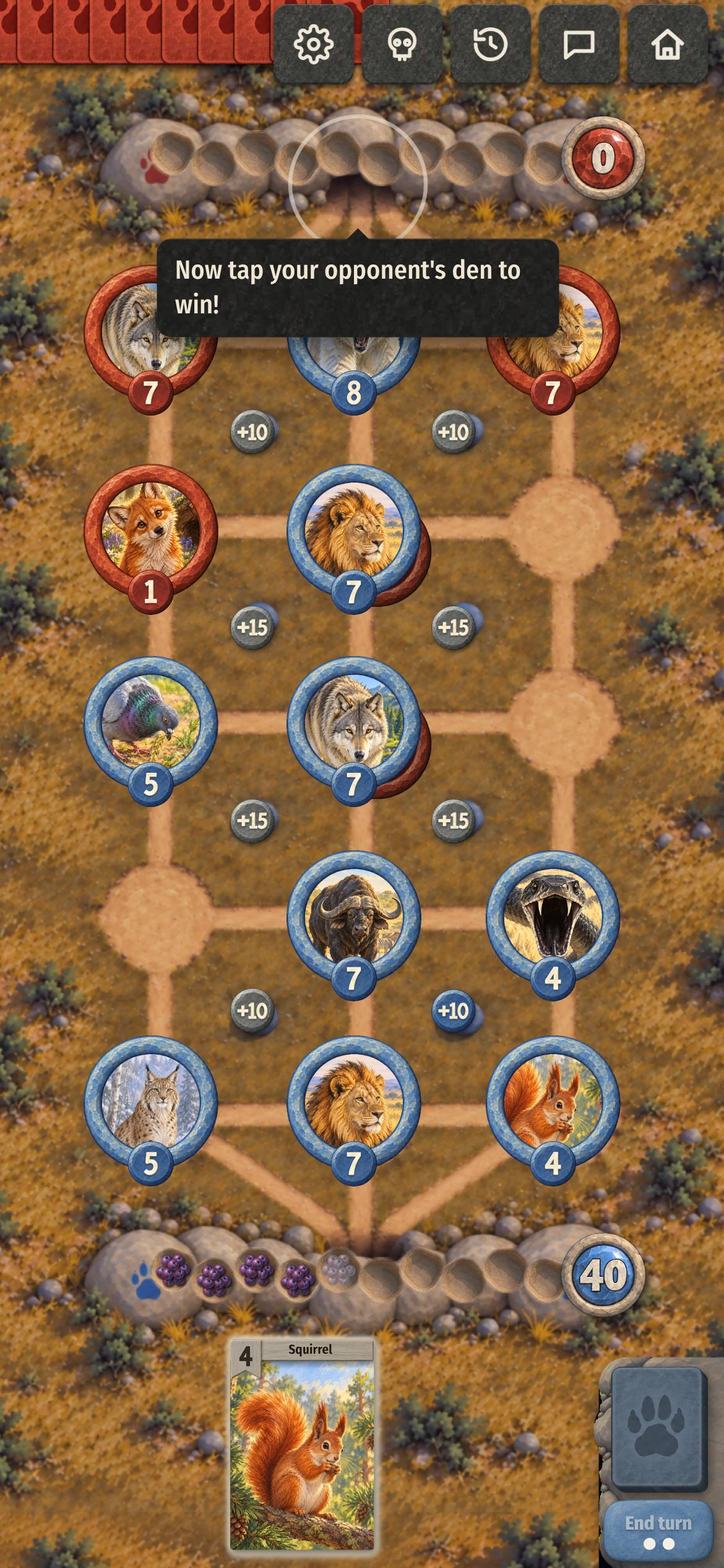
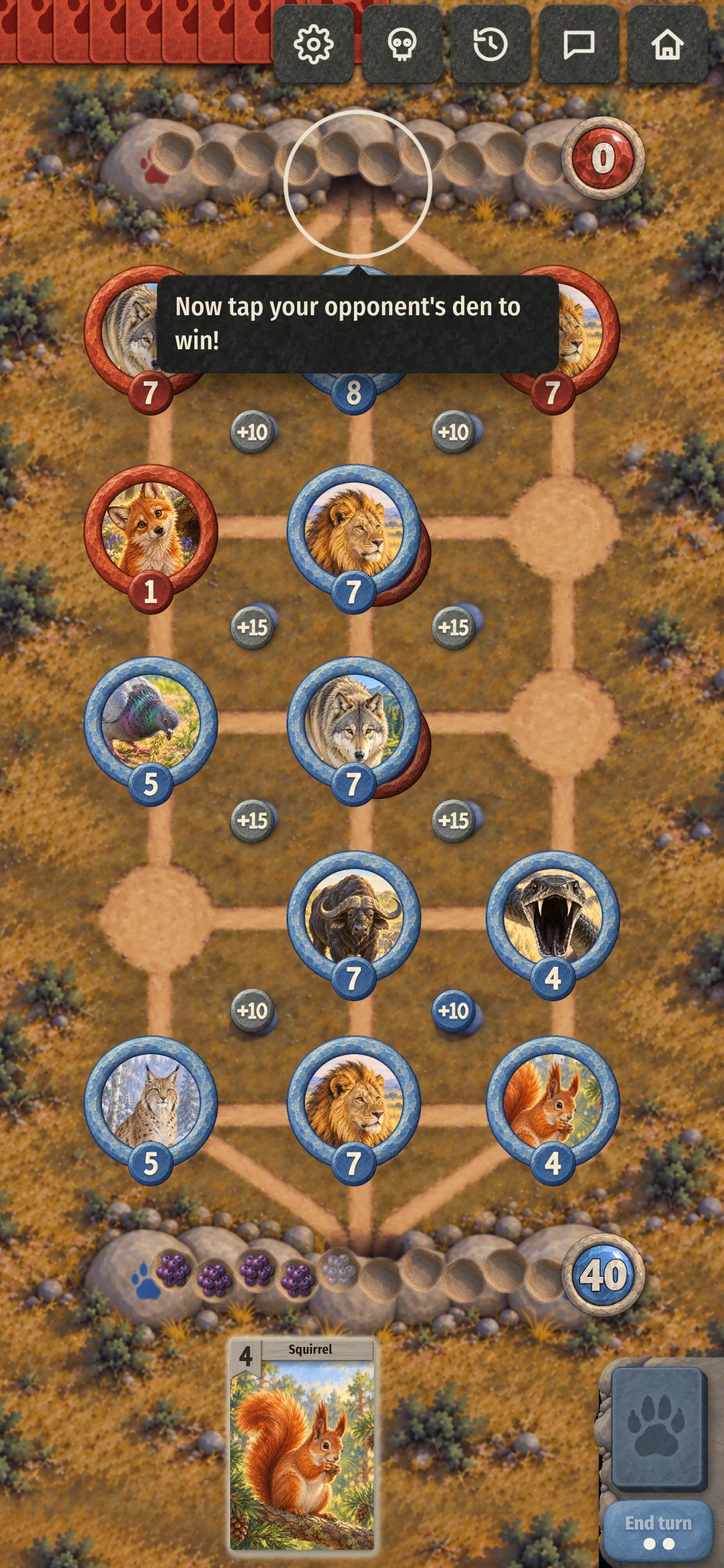
Tutorial, upright: the open-den line stands just under the den's ring, clear of it, still by the den (Martin's second review of finding 5)
Claude-Session: https://claude.ai/code/session_01Ehedr319yoP6MkHMz9pG7b

Changed region(s): [[0.1846, 0.0624, 0.8, 0.2496]]

diff --git a/animal_kingdom/web/static/coach.js b/animal_kingdom/web/static/coach.js
@@ -107,7 +107,9 @@ export function drawCoach(el, L, rings = []) {
     [x, y, side] = port ? [16 + pb.offsetWidth / 2, pb.offsetTop + pb.offsetHeight - 14 - up, 'below'] : [STAGE.w / 2, 100 - up, 'below']; }
   else if (a.endturn) [x, y, side] = port ? [P.end[0] - 55 + out, 0, 'cleft'] : [P.end[0] + out, P.end[1] + up, 'above'];
   else if (a.cr) { [x, y] = crossroadAt(a.cr); if (port) [x, y, side] = vert(x, y, 52); else side = x > STAGE.w / 2 ? 'left' : 'right'; }
-  else if (a.den) { [x, y] = denMouthAt(a.den); if (port) [x, y, side] = vert(x, y, 40); else side = a.den === 'B' ? 'left' : 'right'; }
+  // upright, the move onto their den rings its mouth (game.css .mouth.tgt, 71 stage px out): the line stands just under the ring
+  // (Martin, 2026-11-05: down only as far as clears the circle, still by the den)
+  else if (a.den) { [x, y] = denMouthAt(a.den); if (port) [x, y, side] = vert(x, y, L.only && L.only.hq ? 76 : 40); else side = a.den === 'B' ? 'left' : 'right'; }
   else if (a.rings && !rings.length) [x, y, side] = [P.handC, H, 'above'];   // no card picked yet: the circles come with one, so point at the hand
   else if (a.rings) {   // beside the group of rings, clear of all of them, with no notch (the rings pulse instead)
     const rs = rings.map(crossroadAt);   // this frame's rings, before the board redraws
